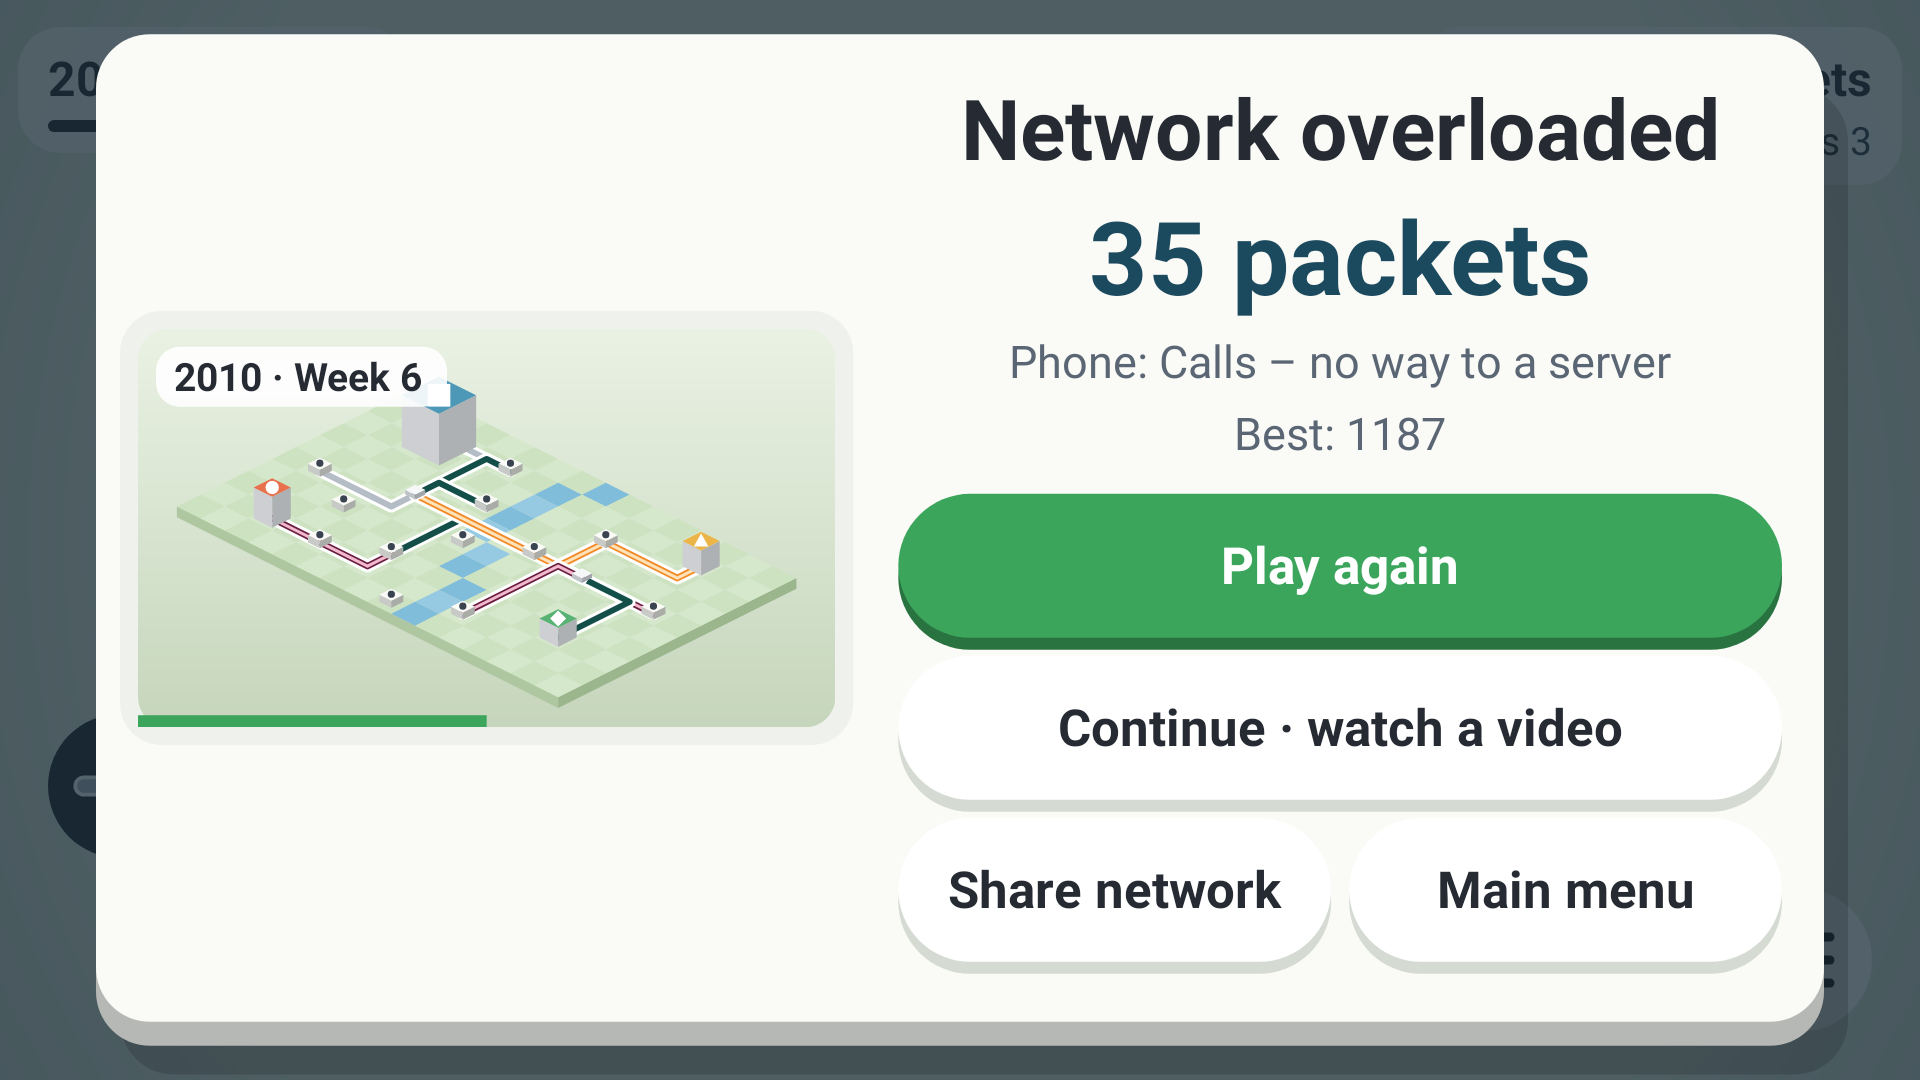
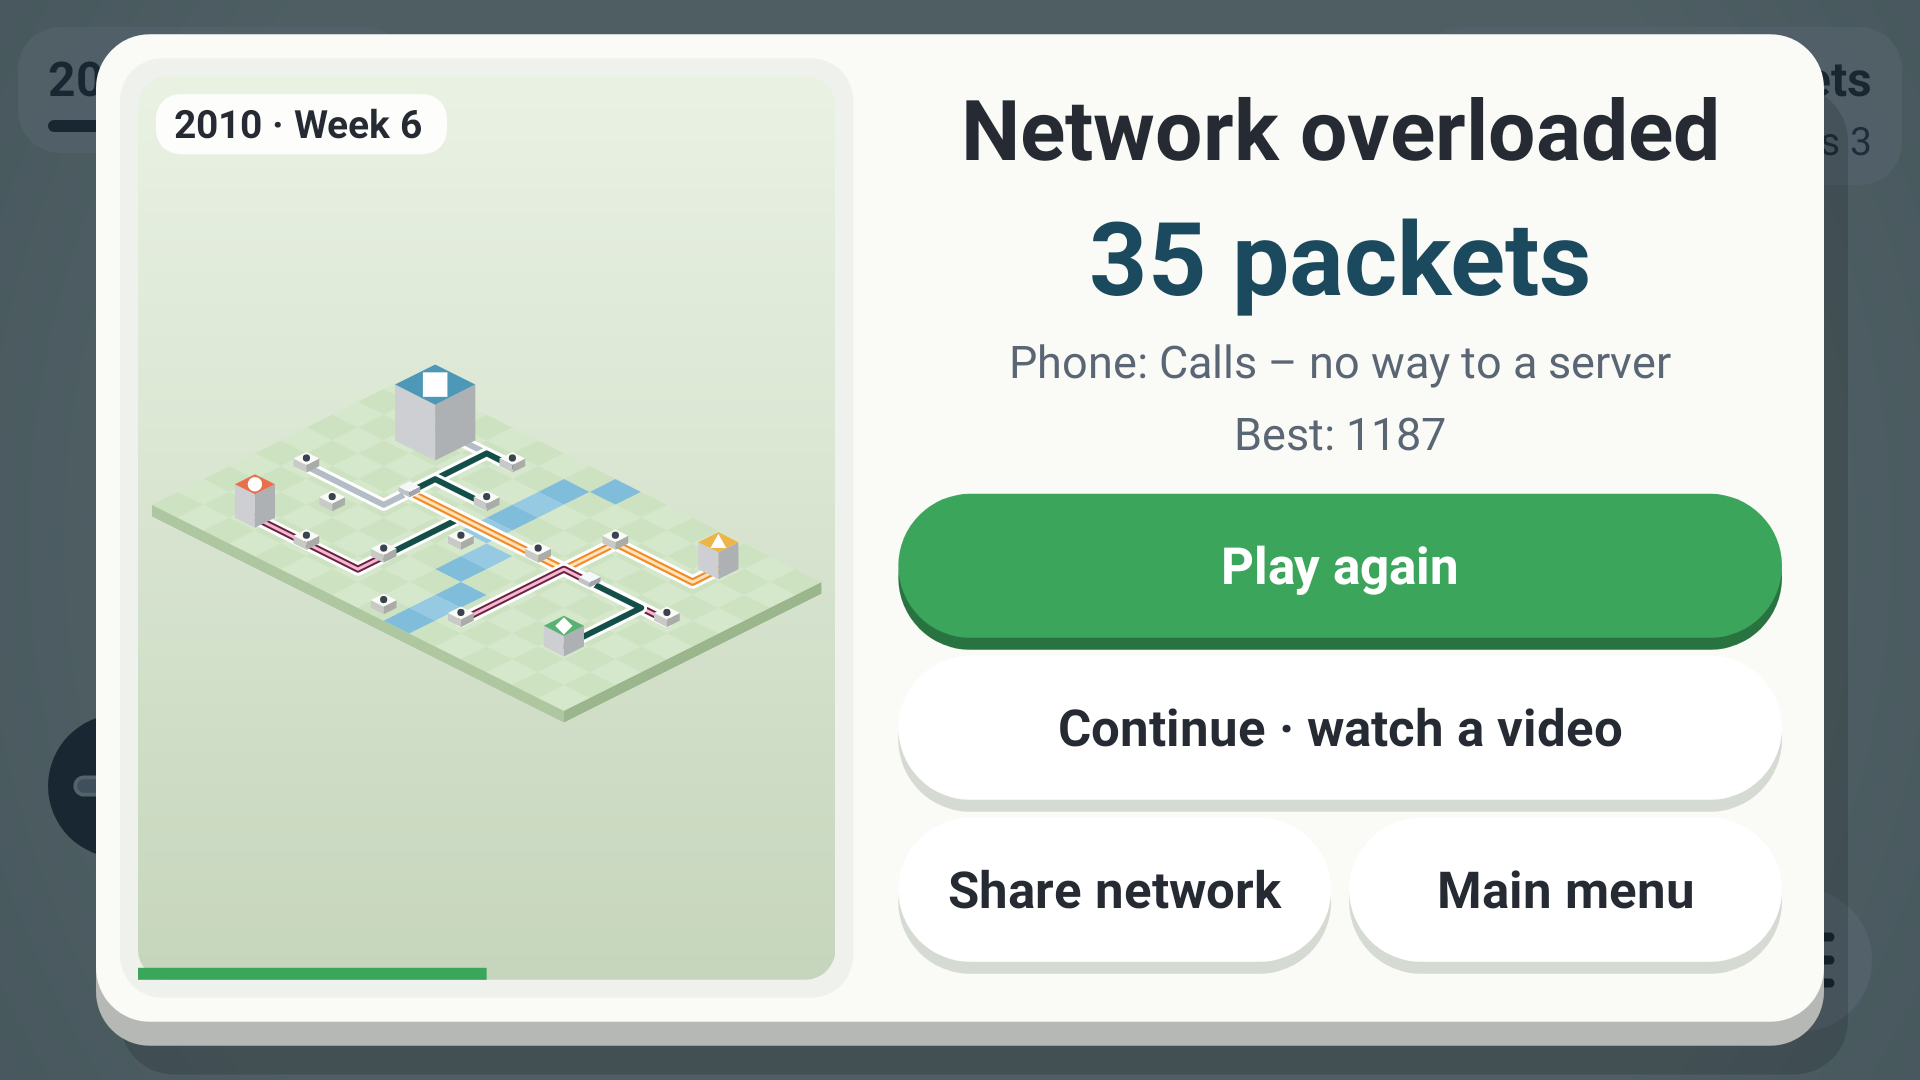
Final review fixes: safe cloud executor, full-height game-over recap, clean feature graphic edge
- PlayGameServices: queue cloud saves via tryExecute, so a race with close()
  in onDestroy no longer throws RejectedExecutionException on the game thread
  (CloudExecutorTest).
- Game-over split card: the time-lapse plate spans the whole left half from
  the title to the last entry (AccessibleLayoutTest checks it).
- Feature graphic: sky haze along the top edge, nothing is cut at the border.
- Portrait tablets: test that tiles are at least as large as on a landscape
  phone; rationale for not zooming to the height in docs/TOP100.md.
- docs/TOP100.md: F3 evidence says 2 of 12 feature graphics are committed;
  B4 stays open pending an independent three-agent panel.

Claude-Session: https://claude.ai/code/session_01JYZBRcdt5eUEVzHEtvpy6n

Changed region(s): [[0.0625, 0.0917, 0.4375, 0.9167]]

diff --git a/app/src/test/java/com/mininetworks/game/render/StoreScreenshotTest.kt b/app/src/test/java/com/mininetworks/game/render/StoreScreenshotTest.kt
@@ -758,6 +758,12 @@ class StoreScreenshotTest {
         c.drawCircle(hp.x, hp.y - 30f, 150f, Paint(Paint.ANTI_ALIAS_FLAG).apply {
             shader = RadialGradient(hp.x, hp.y - 30f, 150f, intArrayOf(glowColor and 0xFFFFFF or 0x88000000.toInt(), glowColor and 0xFFFFFF or 0x33000000, 0), floatArrayOf(0f, 0.5f, 1f), Shader.TileMode.CLAMP)
         })
+        // A haze of the scenery's sky along the top edge: the town runs on past the frame, so whatever the edge cuts
+        // (a packet, a request badge) fades into the sky instead of showing as half an element.
+        val sky = Cosmetic.palette.background and 0xFFFFFF
+        c.drawRect(0f, 0f, w.toFloat(), TOP_HAZE, Paint().apply {
+            shader = LinearGradient(0f, 0f, 0f, TOP_HAZE, intArrayOf(sky or 0xFF000000.toInt(), sky or 0xE6000000.toInt(), sky), floatArrayOf(0f, 0.35f, 1f), Shader.TileMode.CLAMP)
+        })
         // The gradient that carries the title.
         c.drawRect(0f, h * 0.45f, w.toFloat(), h.toFloat(), Paint().apply {
             shader = LinearGradient(0f, h * 0.45f, 0f, h.toFloat(), intArrayOf(0x00112634, 0xCC112634.toInt(), 0xF2112634.toInt()), floatArrayOf(0f, 0.45f, 1f), Shader.TileMode.CLAMP)
@@ -785,6 +791,11 @@ class StoreScreenshotTest {
                 assertTrue("tagline on one line inside the safe area", tag.measureText(tagline) <= w * 0.8f)
             }
             for (x in 0 until w step 64) for (yy in 0 until h step 50) assertEquals("opaque at $x,$yy", 0xFF, shot.getPixel(x, yy) ushr 24)
+            // Nothing is cut by the top edge: the outermost row is plain sky everywhere.
+            for (x in 0 until w step 8) {
+                val px = shot.getPixel(x, 0)
+                for (sh in intArrayOf(0, 8, 16)) assertTrue("sky at $x,0", kotlin.math.abs(((sky shr sh) and 0xFF) - ((px shr sh) and 0xFF)) <= 3)
+            }
             assertEquals(w, shot.width)
             assertEquals(h, shot.height)
             writeRgbPng(shot, file)
@@ -838,6 +849,8 @@ class StoreScreenshotTest {
     }
 
     companion object {
+        /** Height in px of the sky haze along the feature graphic's top edge. */
+        const val TOP_HAZE = 64f
         /**
          * The feature graphic's one-line tagline per language: the game's own arc, from ISDN in 1995 to fiber (as in
          * the store texts). The default graphic has none (docs/store/feature-graphic.png).

diff --git a/app/src/main/java/com/mininetworks/game/games/PlayGameServices.kt b/app/src/main/java/com/mininetworks/game/games/PlayGameServices.kt
@@ -14,7 +14,9 @@ import com.google.android.gms.tasks.Tasks
 import com.mininetworks.game.R
 import com.mininetworks.game.game.CloudProgress
 import com.mininetworks.game.game.LeaderboardScore
+import java.util.concurrent.Executor
 import java.util.concurrent.Executors
+import java.util.concurrent.RejectedExecutionException
 import java.util.concurrent.TimeUnit
 
 /**
@@ -101,8 +103,8 @@ class PlayGameServices(private val activity: Activity, private val ids: GamesIds
     }
 
     override fun loadProgress(onLoaded: (CloudProgress?) -> Unit) {
-        if (!signedIn || cloud.isShutdown) return onLoaded(null)
-        cloud.execute {
+        if (!signedIn) return onLoaded(null)
+        val queued = cloud.tryExecute {
             val progress = try {
                 openResolved()?.let { snapshot ->
                     read(snapshot).also { await(snapshots.discardAndClose(snapshot)) }
@@ -113,13 +115,14 @@ class PlayGameServices(private val activity: Activity, private val ids: GamesIds
             }
             onLoaded(progress)
         }
+        if (!queued) onLoaded(null)
     }
 
     override fun saveProgress(progress: CloudProgress) {
-        if (!signedIn || cloud.isShutdown) return
-        cloud.execute {
+        if (!signedIn) return
+        cloud.tryExecute {
             try {
-                val snapshot = openResolved() ?: return@execute
+                val snapshot = openResolved() ?: return@tryExecute
                 val remote = read(snapshot)
                 val merged = remote?.let { CloudProgress.merge(it, progress) } ?: progress
                 if (remote != null && (remote.newerFormat || merged == remote)) {
@@ -183,4 +186,15 @@ class PlayGameServices(private val activity: Activity, private val ids: GamesIds
         const val MAX_CONFLICTS = 3
         const val TIMEOUT_SECONDS = 30L
     }
+}
+
+/**
+ * Queues [task] unless the executor was already shut down; returns false instead of throwing. `close()` in `onDestroy`
+ * can race with a save from the game thread, and a rejected cloud save must never crash the game thread.
+ */
+internal fun Executor.tryExecute(task: () -> Unit): Boolean = try {
+    execute(task)
+    true
+} catch (_: RejectedExecutionException) {
+    false
 }

diff --git a/app/src/test/java/com/mininetworks/game/render/RendererCameraTest.kt b/app/src/test/java/com/mininetworks/game/render/RendererCameraTest.kt
@@ -94,6 +94,29 @@ class RendererCameraTest {
         }
     }
 
+    /**
+     * Portrait only happens on large screens (OrientationPolicy: smallest width 600 dp and up). There the iso board,
+     * twice as wide as high, is framed by the width, so a band of sky stays above and below it; but every tile is at
+     * least as large in dp as on a landscape phone, the format the game is designed for, so devices stay as easy to
+     * hit. Zooming further to the height would push nodes at the sides off the screen.
+     */
+    @Test
+    fun portraitTabletsShowTilesAtLeastAsLargeAsALandscapePhone() {
+        fun tileDp(width: Int, height: Int, density: Float): Float {
+            val world = Scenes.hud()
+            val r = IsoRenderer()
+            r.density = density
+            r.layout(width, height, world, ViewInsets(8f * density, 60f * density, 8f * density, 140f * density))
+            if (r.camera.isTall) assertTrue("${width}x$height shows every node", r.camera.shows(r.contentBounds(world)!!))
+            return r.mapBounds(CellRect(0, 0, 1, 1)).width * r.camera.scale / density
+        }
+        val phone = tileDp(2400, 1080, 3f)
+        for ((w, h, d) in listOf(Triple(1600, 2560, 2f), Triple(1200, 1920, 1.5f), Triple(1600, 2000, 2f))) {
+            val tablet = tileDp(w, h, d)
+            assertTrue("${w}x$h at $d: tile $tablet dp, phone $phone dp", tablet >= phone)
+        }
+    }
+
     /** docs/TOP100.md B4: in landscape the built network fills the view instead of the whole diamond of the area. */
     @Test
     fun landscapeFramingZoomsOnTheNetworkButKeepsEveryNode() {

diff --git a/app/src/test/java/com/mininetworks/game/ui/AccessibleLayoutTest.kt b/app/src/test/java/com/mininetworks/game/ui/AccessibleLayoutTest.kt
@@ -198,7 +198,16 @@ class AccessibleLayoutTest {
                 if (b.textPx / density < MIN_ENTRY_SP) problems += "${size.id}, $lang: ${b.text} at ${b.textPx / density} sp"
                 if (b.shortened) problems += "${size.id}, $lang: ${b.text} cut with …"
             }
-            if (nodes.none { it.key == "menu:picture" }) problems += "${size.id}, $lang: no time-lapse"
+            val picture = nodes.firstOrNull { it.key == "menu:picture" }
+            if (picture == null) {
+                problems += "${size.id}, $lang: no time-lapse"
+            } else {
+                // The time-lapse spans the text pane: no empty band above the title's height or below the last entry.
+                val title = nodes.single { it.key == "menu:title" }
+                val lastEntry = nodes.filter { it.key.startsWith("menu:") && it.kind == UiNode.Kind.BUTTON }.maxOf { it.bounds.bottom }
+                if (picture.bounds.top > title.bounds.top + density) problems += "${size.id}, $lang: time-lapse starts below the title"
+                if (picture.bounds.bottom < lastEntry - density) problems += "${size.id}, $lang: time-lapse ends above the last entry"
+            }
         }
         RuntimeEnvironment.setQualifiers("de")
         assertTrue(problems.joinToString("\n"), problems.isEmpty())

diff --git a/app/src/main/java/com/mininetworks/game/ui/menu/MenuPanel.kt b/app/src/main/java/com/mininetworks/game/ui/menu/MenuPanel.kt
@@ -257,13 +257,10 @@ class MenuPanel(context: Context) {
         val top = safe.top + (areaH - ch) / 2f - SLAB_DP * u / 2f
         card.set(left, top, left + cw, top + ch)
         slab(canvas, card, 18f * u, SLAB_DP * u, 0xFFFAFAF7.toInt(), 0xFFE3E6E1.toInt().shade(-0.2f), shadow = true)
-        // The picture, as large as the left half allows at its aspect ratio, on a rounded plate.
+        // The picture fills the whole left half on a rounded plate, from the title's height down to the last entry, so
+        // no empty band opens above or below it; it draws itself as large as its aspect ratio allows inside.
         val boxW = cw - paneW - 1.5f * l.pad
-        val boxH = ch - 2 * l.pad
-        val pw = minOf(boxW, boxH * pic.aspect)
-        val ph = pw / pic.aspect
-        val pcx = card.left + l.pad + boxW / 2f
-        val pr = RectF(pcx - pw / 2f, card.centerY() - ph / 2f, pcx + pw / 2f, card.centerY() + ph / 2f)
+        val pr = RectF(card.left + l.pad, card.top + l.pad, card.left + l.pad + boxW, card.bottom - l.pad)
         fillP.color = 0xFFEFF2EC.toInt()
         canvas.drawRoundRect(pr.left - 6f * u, pr.top - 6f * u, pr.right + 6f * u, pr.bottom + 6f * u, 14f * u, 14f * u, fillP)
         canvas.save()

diff --git a/app/src/test/java/com/mininetworks/game/games/CloudExecutorTest.kt b/app/src/test/java/com/mininetworks/game/games/CloudExecutorTest.kt
@@ -1,0 +1,30 @@
+package com.mininetworks.game.games
+
+import org.junit.Assert.assertEquals
+import org.junit.Assert.assertFalse
+import org.junit.Assert.assertTrue
+import org.junit.Test
+import java.util.concurrent.Executors
+import java.util.concurrent.TimeUnit
+import java.util.concurrent.atomic.AtomicInteger
+
+class CloudExecutorTest {
+    @Test
+    fun tryExecuteRunsTaskWhileOpen() {
+        val executor = Executors.newSingleThreadExecutor()
+        val ran = AtomicInteger()
+        assertTrue(executor.tryExecute { ran.incrementAndGet() })
+        executor.shutdown()
+        assertTrue(executor.awaitTermination(5, TimeUnit.SECONDS))
+        assertEquals(1, ran.get())
+    }
+
+    @Test
+    fun tryExecuteAfterShutdownReturnsFalseInsteadOfThrowing() {
+        val executor = Executors.newSingleThreadExecutor()
+        executor.shutdown()
+        val ran = AtomicInteger()
+        assertFalse(executor.tryExecute { ran.incrementAndGet() })
+        assertEquals(0, ran.get())
+    }
+}

diff --git a/docs/TOP100.md b/docs/TOP100.md
@@ -74,6 +74,7 @@ Ein Punkt darf nur mit schriftlicher Begründung gestrichen werden.
   Gesamt-Review nach T9 (noch offen): Die Wertung eines neuen Judge-Panels steht weiter aus. Sie verlangt drei unabhängige Review-Agenten; eine Selbstbewertung durch den umsetzenden Agenten zählt nicht, darum ist B4 hier nicht abgehakt und der Zielwert (≥ 8/10) bleibt unverändert. Seit der Wertung 6,94 zusätzlich geändert und angesehen: Game-Over-Karte mit lesbarem Grund und Knöpfen auf 360-dp-Handys (A7), zurückhaltende Bonus-Pille der Wochenbelohnung (E1), Szenerie-Collage 07 ohne verdeckten Namen und Feature-Grafik je Sprache (F3). Nächster Schritt: Panel mit den aktuellen Bildern (`docs/store/screenshots/*/*/`, `docs/screenshots/game-over.png`, `docs/screenshots/monetization-reward.png`, `docs/store/feature-graphic/*.png`).
   Runde 3 (noch offen, letzte Wertung 6,94/10): Belohnung bei 200 % Schrift repariert (Karte wächst mit ihren Texten, sonst schrumpfen Betrag, Titel und Beschreibung gemeinsam; Betrag bleibt immer in der Karte, langer Titel skaliert statt „…“; `AccessibleLayoutTest.rewardChoiceKeepsLargeTargetsInEveryFormat`), dunkler Dämmerblau-Schleier hinter Belohnung, Pause und Game Over; Szenerie-Auswahl mit angeschnittener Nachbarkarte, Randverlauf, Pfeil-Buttons und Seitenpunkten, wenn die Reihe scrollt; Hauptmenü mit 20-sp-Beschriftung, „Spielen“ über die ganze Breite, „Werbefrei“ als kleiner Textlink, Bestwert als Pokal-Plakette; Anfragen-Plaketten mit höchstens 3 Symbolen plus Zählabzeichen, Schatten und Rand, Symbole 20 % größer; jede Szenerie mit eigener Bodenpalette (Großstadt Asphaltgrau, Insel Sand und tiefes Türkis, Bergdorf Almgrün auf Erde, 2030 Dämmerviolett); UI-Maßstab auf Tablets stufenlos nach kürzester Seite (`TextScaleTest`); Game-Over-Zeitraffer als isometrisches Diorama, Erfolgs-Toast schiebt die Karte nach unten statt ihren Titel zu verdecken; Teilen-Karte randlos mit Verlauf, App-Icon und Name. Store: neues Motiv 3 „Überlastung“ mit echtem HUD und roten Überlastringen, Motiv 4 dichte Stadt 2030 randlos gedreht, Tagesaufgabe nur noch als Hinweis-Pille, Belohnung mit Konfetti, App-Icon vor jeder Beschriftung, kräftigere Farben, engere Ausschnitte, Tablets mit weiterem Blick, 3 Hochformat-Bilder je Sprache, neue Feature-Grafik (großer Schriftzug, einzeilige Tagline). Screenshots neu erzeugt und angesehen (u. a. `docs/screenshots/formfactors/phone-16x9-reward-font200.png`, `phone-16x9-sceneries-font200.png`, `phone-20x9-menu.png`, `docs/screenshots/share/share-card.png`, `docs/store/screenshots/phone/en/03-overload.png`, `docs/store/feature-graphic.png`). Wertung steht aus.
   Abschluss-Review (noch offen): Auch in dieser Runde keine neue Wertung. Der umsetzende Agent darf sich nicht selbst bewerten und konnte in seiner Umgebung keine unabhängigen Review-Agenten starten; das Panel muss von der Orchestrierung mit drei frischen Agenten laufen (Bilder: `docs/store/screenshots/*/*/`, `docs/screenshots/i18n/`, `docs/screenshots/formfactors/`, `docs/screenshots/game-over.png`, `docs/screenshots/monetization-reward.png`; Rubrik Lesbarkeit, Stimmigkeit, Reiz zum Weiterspielen, je 1–10). B4 bleibt offen, Ziel ≥ 8/10 unverändert.
+  Final-Review (noch offen, keine neue Wertung): B4 bleibt offen und blockiert, bis die Orchestrierung drei frische, unabhängige Review-Agenten die aktuellen Bilder bewerten lässt; eine Selbstbewertung zählt nicht, der Zielwert ≥ 8/10 bleibt. Seitdem für „Stimmigkeit“ geändert: Game-Over-Karte, die Zeitraffer-Platte füllt jetzt die ganze linke Hälfte von der Höhe des Titels bis zum letzten Eintrag, kein leeres Band mehr darüber (`AccessibleLayoutTest.gameOverCardKeepsReasonAndEntriesReadableOnLowPhones`, angesehen: `docs/screenshots/monetization-game-over.png`, `docs/screenshots/i18n/*-game-over.png`); Feature-Grafik ohne angeschnittene Elemente am Rand (siehe F3). Hochformat: bewusst nicht auf die Höhe gezoomt. Hochformat gibt es nur ab 600 dp kleinster Breite (OrientationPolicy); dort ist jede Kachel mindestens so groß wie auf dem Handy quer (gemessen: Bildmaß einer Kachel samt Gebäuderaum ≈ 119 dp auf dem 10"-Tablet hoch statt 61 dp auf dem Handy quer, `RendererCameraTest.portraitTabletsShowTilesAtLeastAsLargeAsALandscapePhone`), Geräte bleiben also gut treffbar. Ein Zoom auf die Höhe würde Knoten an den Seiten aus dem Bild schieben; `docs/screenshots/portrait-game.png` zeigt den Sonderfall Handy im geteilten Bildschirm.
 
 ### C. Bindung (Tag 1 und Tag 7)
 - [x] C1 Tägliche Herausforderung: gleicher Seed für alle Spieler pro Tag, eigene Regel des Tages, lokale Serie (Streak).
@@ -115,7 +116,8 @@ Ein Punkt darf nur mit schriftlicher Begründung gestrichen werden.
   Beleg: `docs/store/{de-DE,en-US,fr-FR,es-ES,it-IT,pt-BR,pl-PL,nl-NL,tr-TR,ja-JP,ko-KR,zh-CN}.md` mit Zeichenzahlen, Übersicht `docs/store/README.md` (Titel 20–30, Kurzbeschreibung 36–79, Beschreibung 781–2215 Zeichen), Suchbegriffe natürlich im Text und je Datei aufgelistet, Screenshot-Beschriftungen je Sprache. `StoreListingTest` (JVM) prüft für alle 12: Grenzen 30/80/4000, die angegebenen Zahlen stimmen, Titel beginnt mit „Mini Networks“, Beschriftungen = die im Screenshot-Test gerenderten. Inhalt nur, was das Spiel hat (5 Szenerien, 39 Erfolge, 3 Modi, Tagesaufgabe, Play Games optional, Werbung nur zwischen Partien).
 - [x] F3 Store-Screenshots: je 8 Bilder für Handy, 7"- und 10"-Tablet, erzeugt vom Screenshot-Test in `docs/store/screenshots/`; dazu eine Feature-Grafik 1024 × 500.
   Beleg: `StoreScreenshotTest.eightScreenshotsPerDeviceAndLanguage` → `docs/store/screenshots/{phone,tablet-7,tablet-10}/{de,en}/01-town … 08-incidents.png` (48 Bilder; Motive seit Runde 3: lebendige Stadt, Kabel ziehen mit Preis-Vorschau, Überlastung mit HUD, dichte Stadt 2030 gedreht (randlos), Funk mit WLAN-Kanälen/5 GHz/Mast, Wochen-Belohnung mit Konfetti, fünf Szenerien mit Tagesaufgaben-Hinweis, Bagger und Stromausfall (randlos)) plus `phone-portrait/{de,en}/01-town, 03-overload, 04-rotation.png` (1080 × 1920), echte `GameView` im jeweiligen Format (Handy 1920 × 1080 @ 420 dpi, 7" 1920 × 1080 @ xhdpi, 10" 2560 × 1440 @ xhdpi) mit Beschriftung auf dem Icon-Blau; 16:9 und 24-Bit-PNG ohne Alpha (eigener PNG-Schreiber), wie Play es für Telefon und Tablets verlangt. Weitere Sprachen: `-Pstore.locales=fr,…` (JA und PL so erzeugt und angesehen, nicht eingecheckt). `StoreScreenshotTest.featureGraphic` → `docs/store/feature-graphic.png` (1024 × 500, RGB, Name im sicheren Bereich per Assertion). Alle 48 Bilder und die Feature-Grafik angesehen (Kontaktbögen je Gerät und Sprache); Grenze: auf dem 10"-Tablet wirken HUD und Menükarten im verkleinerten Rahmen klein – so sieht das Spiel dort aus.
-  Nachtrag Gesamt-Review nach T9: Motiv 07: Der Tagesaufgaben-Hinweis verdeckte den Namen der fünften Kachel; er sitzt jetzt oben rechts in der Kachel „Zukunft 2030“ über der Karte und schrumpft bei langen Texten, alle fünf Namen sind lesbar (`docs/store/screenshots/{phone,tablet-7,tablet-10}/{de,en}/07-sceneries.png`, angesehen). Feature-Grafik: Tagline passte nicht zum Spiel („dial-up to 5G“) und war englisch für alle Einträge; jetzt `docs/store/feature-graphic.png` ohne Worte außer dem Namen und je Sprache `docs/store/feature-graphic/<sprache>.png` mit Tagline „von ISDN bis Glasfaser“ (`FEATURE_TAGLINES`, 12 Sprachen; angesehen: `de.png`). Die übrigen 10 Sprachen der Store-Bilder sind bewusst nicht eingecheckt (je Satz ≈ 8 MB PNG, ≈ 80 MB bei jedem Neuerzeugen); sie sind ein Pflichtschritt vor dem Start in `docs/RELEASE.md` 10 mit `-Pstore.locales=…` (F3 fordert DE/EN, erfüllt).
+  Nachtrag Gesamt-Review nach T9: Motiv 07: Der Tagesaufgaben-Hinweis verdeckte den Namen der fünften Kachel; er sitzt jetzt oben rechts in der Kachel „Zukunft 2030“ über der Karte und schrumpft bei langen Texten, alle fünf Namen sind lesbar (`docs/store/screenshots/{phone,tablet-7,tablet-10}/{de,en}/07-sceneries.png`, angesehen). Feature-Grafik: Tagline passte nicht zum Spiel („dial-up to 5G“) und war englisch für alle Einträge; jetzt `docs/store/feature-graphic.png` ohne Worte außer dem Namen und je Sprache `docs/store/feature-graphic/<sprache>.png` mit Tagline „von ISDN bis Glasfaser“ (`FEATURE_TAGLINES` hält Taglines für alle 12 Sprachen; eingecheckt sind davon 2 von 12, `de.png` und `en.png`, die übrigen 10 werden wie die Store-Bilder vor dem Start erzeugt; angesehen: `de.png`). Die übrigen 10 Sprachen der Store-Bilder sind bewusst nicht eingecheckt (je Satz ≈ 8 MB PNG, ≈ 80 MB bei jedem Neuerzeugen); sie sind ein Pflichtschritt vor dem Start in `docs/RELEASE.md` 10 mit `-Pstore.locales=…` (F3 fordert DE/EN, erfüllt).
+  Nachtrag Final-Review: Feature-Grafik ohne angeschnittene Elemente am oberen Rand: ein Dunst in der Himmelsfarbe der Szenerie (64 px) lässt die weiterlaufende Stadt dort ausblenden, die oberste Zeile ist überall reiner Himmel (Prüfung in `StoreScreenshotTest.featureGraphic`, angesehen: `docs/store/feature-graphic/de.png`). Richtigstellung: Von den Feature-Grafiken je Sprache sind nur `de.png` und `en.png` eingecheckt (2 von 12), der Rest ist Pflichtschritt in `docs/RELEASE.md` 10.
 - [x] F4 Storyboard für einen 30-Sekunden-Trailer in `docs/store/trailer.md`.
   Beleg: `docs/store/trailer.md`: Rahmen (1920 × 1080, 60 fps, Aufnahme mit den festen Test-Szenen, Spielsounds, Tafeln je Sprache, sicherer Rand, Play-Badge) und Shotliste mit 9 Einstellungen über 0:00–0:30 (Zeit, Bild, Aktion, Einblendung DE/EN, Ton), Hinweise zu Richtlinien und stummem Autoplay. Produktion bleibt Team-Aufgabe (Abschnitt 2, Punkt 5).
 - [x] F5 Datenschutzerklärung und Formular „Datensicherheit“ passen zu den tatsächlich verwendeten SDKs.
